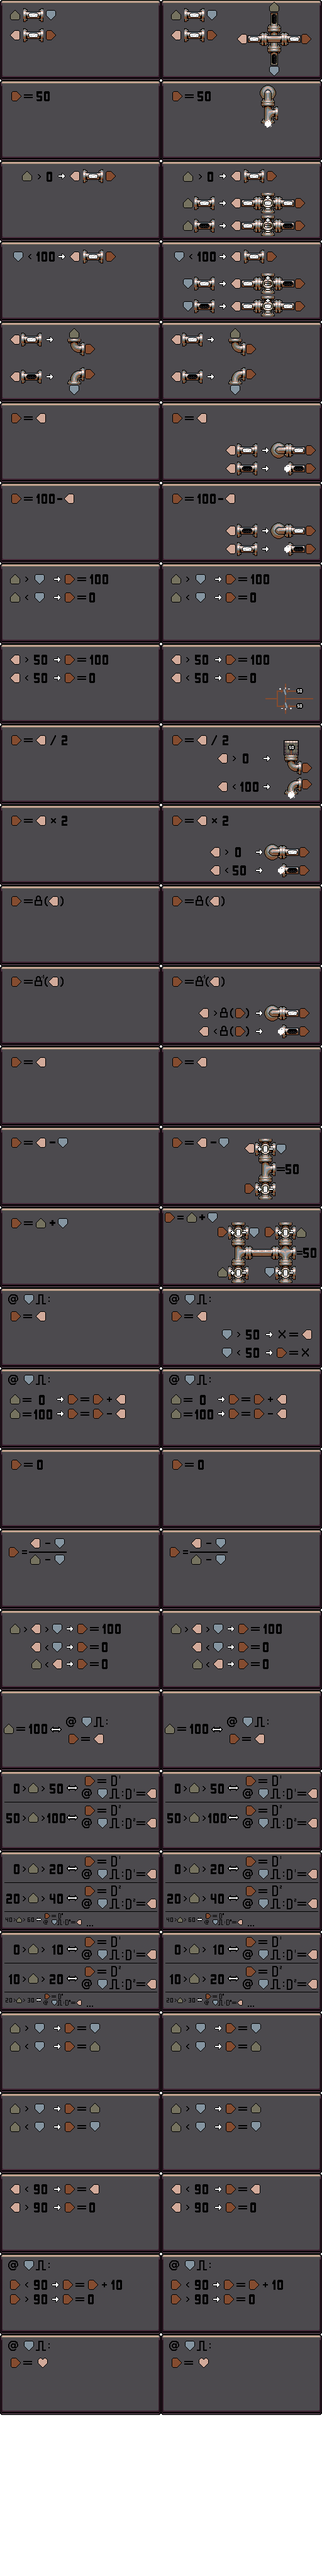
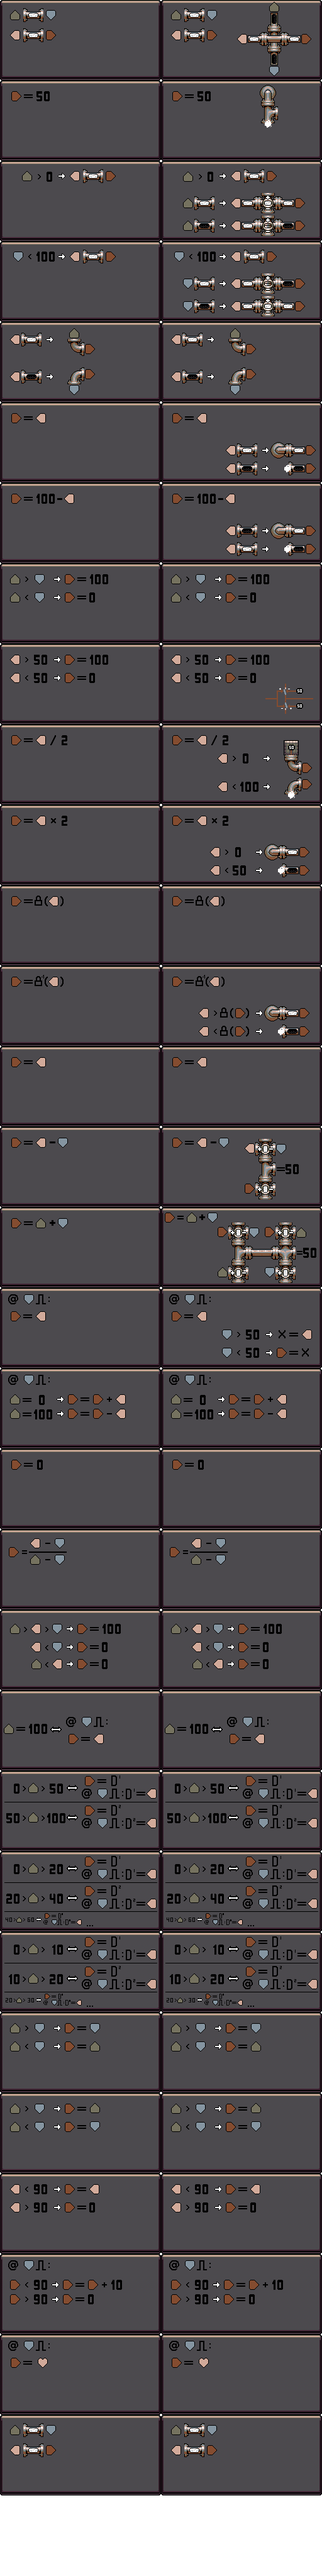
Cross v2 and stop deleting fo blocking pipes

Changed region(s): [[0.0, 0.9375, 1.0, 0.9688]]

diff --git a/GameState.cpp b/GameState.cpp
@@ -741,7 +741,7 @@ void GameState::render(bool saving)
         render_texture(src_rect, dst_rect);
     }
 
-    if (current_level->tests[current_level->test_index].sim_points.size() == current_level->sim_point_index + 1)
+    if ((current_level->tests[current_level->test_index].sim_points.size() == current_level->sim_point_index + 1) && !current_circuit_is_inspected_subcircuit)
     {
         unsigned test_index = current_level->test_index;
         int pin_index = current_level->tests[test_index].tested_direction;
@@ -1811,7 +1811,7 @@ void GameState::render(bool saving)
         render_box(XYPos(16 * scale, 0 * scale), XYPos(592, 360), 0);
 
         render_box(XYPos(16 * scale, 0 * scale), XYPos(592, (128+16)*2+20), 1);
-        for (int i = 0; i < 10; i++)
+        for (int i = 0; i < 11; i++)
         {
             if (i == show_help_page)
                 render_box(XYPos((32 + 48 + i * 32) * scale, (2 * (128 + 16) + 0) * scale), XYPos(32, 32+28), 1);
@@ -1854,8 +1854,8 @@ void GameState::render(bool saving)
                 {XYPos(1,10), 4,10, "Pressure at different points is visible on pipe connections. Note how each pipe has a little resistance."},
                 {XYPos(0,9),  5,10, "Valves allow steam to pass through them if the (+) side of the valve is at a higher pressure than the (-) side. The higher it is, the more the valve is open. Steam on the (+) and (-) sides is not consumed.\n\nHere, the (-) side is vented to atmosphere and thus at 0 pressure. With (+) at 100 PSI and (-) at 0 PSI, the valve is 100% open. If (+) is at 75 and (-) is at 25, the valve will be 50% open."},
                 {XYPos(0,10), 1, 1, "If the pressure on the (+) side is equal or lower than the (-) side, the valve becomes closed and no steam will pass through."},
-                {XYPos(0,11), 5,10, "By pressurising (+) side with a steam inlet, the valve will become open only if the pressure on the (-) side is lower than 100 PSI.\n\n As before, the openness of the valve is the pressure on the (+) side minus the pressture on the (-) side."},
-                {XYPos(0,12), 1, 1, "Applying high pressure to the (-) side will close the valve as the pressure on the (-) size becomes equal to the (+) side."},
+                {XYPos(0,11), 5,10, "By pressurising (+) side with a steam inlet, the valve will become open only if the pressure on the (-) side is lower than 100 PSI.\n\nAs before, the openness of the valve is the pressure on the (+) side minus the pressture on the (-) side."},
+                {XYPos(0,12), 1, 1, "Applying high pressure to the (-) side will close the valve as the pressure on the (-) size becomes equal or higher than the (+) side."},
                 {XYPos(1,12), 1, 1, "The test menu allows you to inspect how well your design is performing. The first three buttons pause the testing, repeatedly run a single test and run all tests respectively.\n\n"
                                     "The current scores for individual tests are shown with the scores of best design seen below. On the right is the final score formed from the worst of all tests."},
                 {XYPos(2,12), 3, 1, "The next panel shows the sequence of inputs and expected outputs for the current test. The current phase is highlighted. The output recorded on the last run is shown to the right.\n\nThe score is based on how close the output is to the target value. The graph shows the output value during the final stage of the test. The faded line in the graph shows the path of the best design so far."},
@@ -1866,6 +1866,13 @@ void GameState::render(bool saving)
                 
                 {XYPos(1,16), 2, 1, "Completed designs are available for use as components. Available components are shown in the build menu. Changing a design will update its implementation in all components.\n\nClicking on the component allows you to inspect it. Pressing the customize button, while inpecting, creates a local design which can be edited and is no longer updated when the original is changed. The design will turn red to signify this."},
                 {XYPos(3,16), 1, 1, "There are four slots to save designs. The best design is also saved so it can be recalled later. Designs can be exchanged using a clipboard string.\n\nClicking the score shows the global score graph, and your score compared to your friends. Their designs are available to be examined."},
+                {XYPos(4,16), 1, 1, "One method of creating a specific pressure is by simultaniously supplying and venting a pipe at a specific ratio. A valve is as open as the pressure on the (+) size minus the pressure on the (-) side.\n\n"
+                                    "Openness = P - N\n\nWhere P is the pressure on the Positive side of the valve and N is the pressure on the Negative side.\n\n"
+                                    "Here the lower valve openness is 40 (60 - 20)."
+                                    },
+                {XYPos(0,17), 5,10, "The pressure generated in this arrangement is, in percent, the openness of the source valve divided by the sum of the openness of both valves.\n\n"
+                                    "Pressure = S / (S + V)\n\nWhere S is Supply valve openness and V is Venting valve openness.\n\n"
+                                    "In this case, Supply is 40 (40 - 0). Venting is also 40 (60 - 20). The expected value between is 40 / (40 + 40) = 50%, thus 50 PSI."},
             };
             
 
@@ -2064,16 +2071,21 @@ void GameState::mouse_click_in_grid()
             }
             else if (i == 10 && current_circuit_is_inspected_subcircuit && !current_level_set_is_inspected)
             {
+                Circuit* prev = current_level->circuit;
                 for (auto &sub : inspection_stack)
+                {
                     if (!sub->get_custom() && !sub->get_read_only())
                     {
                         if (sub == inspection_stack.back())
                         {
+                            prev->ammend();
                             sub->set_custom();
                             current_circuit_is_read_only = false;
                         }
                         break;
                     }
+                    prev = sub->get_subcircuit();
+                }
                 return;
             }
             else if (i == 10 && current_level_set_is_inspected)
@@ -2968,12 +2980,15 @@ bool GameState::events()
                         }
                         break;
                     case SDL_SCANCODE_X:
-                        if (!SDL_IsTextInputActive() && !current_circuit_is_read_only)
+                        if (!SDL_IsTextInputActive())
                         {
                             clipboard.copy(selected_elements, *current_circuit);
-                            current_circuit->delete_selected_elements(selected_elements);
-                            selected_elements.clear();
-                            level_set->touch(current_level_index);
+                            if(!current_circuit_is_read_only)
+                            {
+                                current_circuit->delete_selected_elements(selected_elements);
+                                selected_elements.clear();
+                                level_set->touch(current_level_index);
+                            }
                         }
                         break;
                     case SDL_SCANCODE_C:
@@ -3274,11 +3289,11 @@ bool GameState::events()
                         if (pos.y < 32 && pos.y >=0)
                         {
                             int x = pos.x / 32;
-                            if (x < 10)
+                            if (x < 11)
                                 show_help_page = x;
                             break;
                         }
-                        show_help_page = (show_help_page + 1) % 10;
+                        show_help_page = (show_help_page + 1) % 11;
                         break;
                     }
                     else if (show_confirm)

diff --git a/Level.cpp b/Level.cpp
@@ -2297,7 +2297,7 @@ void Level::init_tests(SaveObjectMap* omap)
             substep_count = 30000;
 
 
-            NEW_TEST; RESET_1;// tests.back().tested_direction = DIRECTION_S;
+            NEW_TEST; RESET_1; tests.back().tested_direction = DIRECTION_E;
                      // N   E   S   W
             NEW_POINT_F(  0,  0,  0,  0, 50,  0,  0, 50);
             NEW_POINT_F( 20, 70, 20, 70, 50,  0,  0, 50);
@@ -2307,7 +2307,7 @@ void Level::init_tests(SaveObjectMap* omap)
             END_PRESET;
             NEW_POINT_F( 20, 70, 20, 70, 50,  0,  0, 50);
 
-            NEW_TEST; RESET_1;// tests.back().tested_direction = DIRECTION_S;
+            NEW_TEST; RESET_1; tests.back().tested_direction = DIRECTION_E;
             NEW_POINT_F(  0,  0,  0,  0, 50,  0,  0, 50);
             NEW_POINT_F( 20, 70, 20, 70, 50,  0,  0, 50);
             NEW_POINT_F( 20, 70, 20, 70, 50,  0,  0, 50);
@@ -2321,14 +2321,14 @@ void Level::init_tests(SaveObjectMap* omap)
             END_PRESET;
             NEW_POINT_F( 80, 30, 80, 30, 50,  0,  0, 50);
 
-            NEW_TEST; RESET_1;
+            NEW_TEST; RESET_1; tests.back().tested_direction = DIRECTION_E;
             NEW_POINT_F(  0,  0,  0,  0, 50,  0,  0, 50);
             NEW_POINT_F( 20, 70, 20, 70, 50,  0,  0, 50);
             NEW_POINT_F( 20, 70, 20, 70, 50,  0,  0, 50);
             NEW_POINT_F( 80, 30, 80, 30, 50,  0,  0, 50);
             NEW_POINT_F( 80, 30, 80, 30, 50,  0,  0, 50);
             END_PRESET;
-            NEW_POINT_F( 40, 50, 40, 50, 50,  0,  0, 50);
+            NEW_POINT_F( 10, 90, 10, 90, 50,  0,  0, 50);
 
             NEW_TEST;  RESET_1;tests.back().tested_direction = DIRECTION_S;
             NEW_POINT_F(  0,  0,  0,  0, 50,  0,  0, 50);
@@ -2336,31 +2336,53 @@ void Level::init_tests(SaveObjectMap* omap)
             NEW_POINT_F( 20, 70, 20, 70, 50,  0,  0, 50);
             NEW_POINT_F( 80, 30, 80, 30, 50,  0,  0, 50);
             NEW_POINT_F( 80, 30, 80, 30, 50,  0,  0, 50);
-            NEW_POINT_F( 40, 50, 40, 50, 50,  0,  0, 50);
+            NEW_POINT_F( 10, 90, 10, 90, 50,  0,  0, 50);
             END_PRESET;
-            NEW_POINT_F( 40, 50, 40, 50, 50,  0,  0, 50);
+            NEW_POINT_F( 10, 90, 10, 90, 50,  0,  0, 50);
 
-            NEW_TEST; RESET_1;
-            NEW_POINT_F(  0,  0,  0,  0, 50,  0,  0, 50);
-            NEW_POINT_F( 20, 70, 20, 70, 50,  0,  0, 50);
-            NEW_POINT_F( 20, 70, 20, 70, 50,  0,  0, 50);
-            NEW_POINT_F( 80, 30, 80, 30, 50,  0,  0, 50);
-            NEW_POINT_F( 80, 30, 80, 30, 50,  0,  0, 50);
-            NEW_POINT_F( 40, 50, 40, 50, 50,  0,  0, 50);
-            NEW_POINT_F( 40, 50, 40, 50, 50,  0,  0, 50);
+
+            NEW_TEST; RESET_1; RESET_ALL; tests.back().tested_direction = DIRECTION_W;
+                     // N   E   S   W
+            NEW_POINT_F(  0,  0,  0,  0,  0, 50, 50,  0);
+            NEW_POINT_F( 20, 70, 20, 70,  0, 50, 50,  0);
+            NEW_TEST; RESET_1;tests.back().tested_direction = DIRECTION_N;
+            NEW_POINT_F(  0,  0,  0,  0,  0, 50, 50,  0);
+            NEW_POINT_F( 20, 70, 20, 70,  0, 50, 50,  0);
             END_PRESET;
-            NEW_POINT_F( 70, 80, 70, 80, 50,  0,  0, 50);
-            NEW_TEST;  RESET_1; tests.back().tested_direction = DIRECTION_S;
-            NEW_POINT_F(  0,  0,  0,  0, 50,  0,  0, 50);
-            NEW_POINT_F( 20, 70, 20, 70, 50,  0,  0, 50);
-            NEW_POINT_F( 20, 70, 20, 70, 50,  0,  0, 50);
-            NEW_POINT_F( 80, 30, 80, 30, 50,  0,  0, 50);
-            NEW_POINT_F( 80, 30, 80, 30, 50,  0,  0, 50);
-            NEW_POINT_F( 40, 50, 40, 50, 50,  0,  0, 50);
-            NEW_POINT_F( 40, 50, 40, 50, 50,  0,  0, 50);
-            NEW_POINT_F( 70, 80, 70, 80, 50,  0,  0, 50);
+            NEW_POINT_F( 20, 70, 20, 70,  0, 50, 50,  0);
+
+            NEW_TEST; RESET_1; tests.back().tested_direction = DIRECTION_W;
+            NEW_POINT_F(  0,  0,  0,  0,  0, 50, 50,  0);
+            NEW_POINT_F( 20, 70, 20, 70,  0, 50, 50,  0);
+            NEW_POINT_F( 20, 70, 20, 70,  0, 50, 50,  0);
             END_PRESET;
-            NEW_POINT_F( 70, 80, 70, 80, 50,  0,  0, 50);
+            NEW_POINT_F( 80, 30, 80, 30,  0, 50, 50,  0);
+            NEW_TEST; RESET_1;tests.back().tested_direction = DIRECTION_N;
+            NEW_POINT_F(  0,  0,  0,  0,  0, 50, 50,  0);
+            NEW_POINT_F( 20, 70, 20, 70,  0, 50, 50,  0);
+            NEW_POINT_F( 20, 70, 20, 70,  0, 50, 50,  0);
+            NEW_POINT_F( 80, 30, 80, 30,  0, 50, 50,  0);
+            END_PRESET;
+            NEW_POINT_F( 80, 30, 80, 30,  0, 50, 50,  0);
+
+            NEW_TEST; RESET_1; tests.back().tested_direction = DIRECTION_W;
+            NEW_POINT_F(  0,  0,  0,  0,  0, 50, 50,  0);
+            NEW_POINT_F( 20, 70, 20, 70,  0, 50, 50,  0);
+            NEW_POINT_F( 20, 70, 20, 70,  0, 50, 50,  0);
+            NEW_POINT_F( 80, 30, 80, 30,  0, 50, 50,  0);
+            NEW_POINT_F( 80, 30, 80, 30,  0, 50, 50,  0);
+            END_PRESET;
+            NEW_POINT_F( 10, 90, 10, 90,  0, 50, 50,  0);
+
+            NEW_TEST;  RESET_1;tests.back().tested_direction = DIRECTION_N;
+            NEW_POINT_F(  0,  0,  0,  0,  0, 50, 50,  0);
+            NEW_POINT_F( 20, 70, 20, 70,  0, 50, 50,  0);
+            NEW_POINT_F( 20, 70, 20, 70,  0, 50, 50,  0);
+            NEW_POINT_F( 80, 30, 80, 30,  0, 50, 50,  0);
+            NEW_POINT_F( 80, 30, 80, 30,  0, 50, 50,  0);
+            NEW_POINT_F( 10, 90, 10, 90,  0, 50, 50,  0);
+            END_PRESET;
+            NEW_POINT_F( 10, 90, 10, 90,  0, 50, 50,  0);
 
 
             break;

diff --git a/Circuit.cpp b/Circuit.cpp
@@ -1280,13 +1280,18 @@ void Circuit::delete_selected_elements(std::set<XYPos> &selected_elements)
 {
     bool all_empty = true;
     for (const XYPos& pos: selected_elements)
-        if (!elements[pos.y][pos.x]->is_empty())
+    {
+        if (!elements[pos.y][pos.x]->is_empty() && !is_blocked(pos))
             all_empty = false;
+    }
     if (all_empty)
         return;
+
     ammend();
     for (const XYPos& pos: selected_elements)
     {
+        if (is_blocked(pos))
+            continue;
         delete elements[pos.y][pos.x];
         elements[pos.y][pos.x] = new CircuitElementEmpty();
     }
